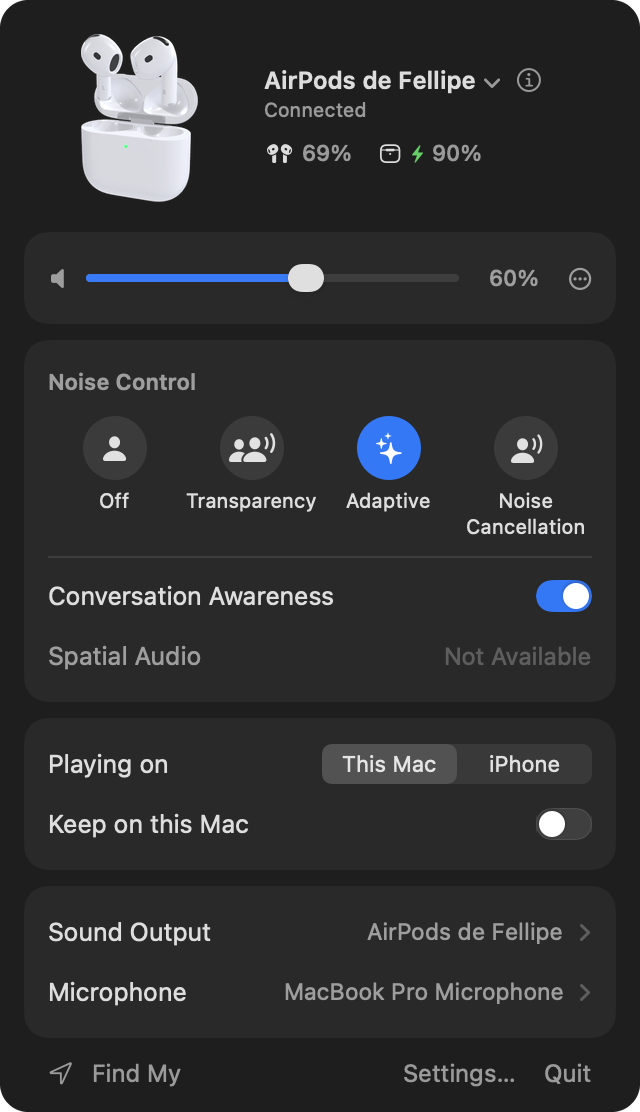
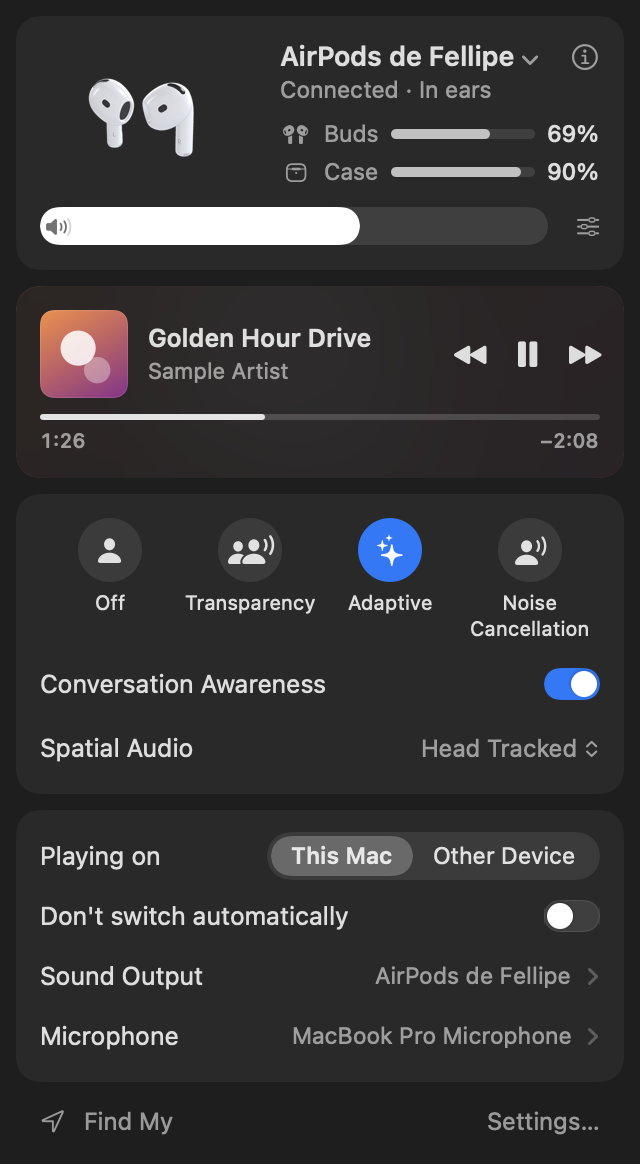
README: new 1.1.0 screenshots, badges, buy and trial buttons under the hero, a grid of four shots, short sections

diff --git a/README.md b/README.md
@@ -1,60 +1,122 @@
 <p align="center">
-  <img src="images/icon.png" width="96" height="96" alt="AirPane app icon">
+  <img src="images/icon.png" width="128" height="128" alt="AirPane app icon">
 </p>
 
 <h1 align="center">AirPane</h1>
 
 <p align="center">
   <strong>Your AirPods, at home on your Mac.</strong><br>
-  A menu bar app for AirPods. $7.99 once, for all your own Macs.
+  A menu bar app for AirPods. Free for 7 days, then $7.99 once, for all your own Macs.
 </p>
 
 <p align="center">
-  <a href="https://airpane.app"><strong>airpane.app</strong></a>
-  &nbsp;·&nbsp;
-  <a href="https://airpane.app/#buy">Buy AirPane</a>
-  &nbsp;·&nbsp;
-  <a href="https://github.com/fellipegoncalvesleite/airpane-releases/releases/latest/download/AirPane.dmg">Download</a>
+  <a href="https://github.com/fellipegoncalvesleite/airpane-releases/releases/latest"><img src="https://img.shields.io/github/v/release/fellipegoncalvesleite/airpane-releases?style=flat-square&label=version&color=111" alt="Latest version"></a>
+  <a href="https://github.com/fellipegoncalvesleite/airpane-releases/releases"><img src="https://img.shields.io/github/downloads/fellipegoncalvesleite/airpane-releases/total?style=flat-square&label=downloads&color=111" alt="Downloads"></a>
+  <img src="https://img.shields.io/badge/macOS-14%2B-111?style=flat-square&logo=apple&logoColor=white" alt="macOS 14 or later">
+  <img src="https://img.shields.io/badge/price-%247.99%20once-111?style=flat-square" alt="$7.99 once">
 </p>
 
 <p align="center">
   <picture>
     <source media="(prefers-color-scheme: dark)" srcset="images/card-dark.png">
-    <img src="images/card-light.png" width="360" alt="The card AirPane shows when you open the AirPods case: a 3D model of the AirPods with the buds at 69% and the case charging at 90%">
+    <img src="images/card-light.png" width="330" alt="The card AirPane shows when you open the AirPods case: a 3D model of the AirPods, the buds at 69% and the case charging at 90%">
   </picture>
   <picture>
     <source media="(prefers-color-scheme: dark)" srcset="images/panel-dark.png">
-    <img src="images/panel-light.png" width="250" alt="AirPane's menu bar panel: battery, volume, noise control, Conversation Awareness, Mac or iPhone, sound output and microphone">
+    <img src="images/panel-light.png" width="250" alt="AirPane's menu bar panel: battery, volume, what's playing, noise control, Conversation Awareness, where the sound plays, sound output and microphone">
   </picture>
+</p>
+
+<p align="center">
+  <a href="https://airpane.app/#buy"><img src="https://img.shields.io/badge/Buy_AirPane-%247.99-0A84FF?style=for-the-badge&labelColor=0A84FF" height="36" alt="Buy AirPane for $7.99"></a>
+  &nbsp;
+  <a href="https://github.com/fellipegoncalvesleite/airpane-releases/releases/latest/download/AirPane.dmg"><img src="https://img.shields.io/badge/Try_it_free-7_days-333?style=for-the-badge" height="36" alt="Download the 7-day free trial"></a><br>
+  <sub>One-time purchase, never a subscription. Full refund within 30 days. <a href="https://airpane.app">airpane.app</a></sub>
 </p>
 
 ## What it does
 
 - **Opens when you open the case.** Batteries and a Connect button the moment the lid opens, or when AirPods Max
   leave their Smart Case.
-- **Noise control in the menu bar.** Off, Transparency, Adaptive and Noise Cancellation, one click away.
-- **Volume up to 200%.** For the quiet call and the quieter video.
+- **Everything in one click.** Battery, volume up to 200%, what's playing, noise control, Conversation Awareness,
+  Spatial Audio, and where the sound goes, all in the menu bar.
+- **Keeps them where you want them.** Choose the Mac or your other device, keep your microphone, stop automatic
+  switching.
 
-And the small things: a sleep timer, a volume limit for your ears, when the case will be full, a battery widget, a
-small card when you put one AirPod back, sound output and microphone right from the panel, low battery alerts, hot
+<table>
+  <tr>
+    <td width="50%">
+      <picture>
+        <source media="(prefers-color-scheme: dark)" srcset="images/small-dark.png">
+        <img src="images/small-light.png" alt="A small card: both AirPods back in the case, buds at 69%, case at 90%">
+      </picture><br>
+      <b>The small things.</b> A quiet card when you put them back in the case.
+    </td>
+    <td width="50%">
+      <picture>
+        <source media="(prefers-color-scheme: dark)" srcset="images/pill-dark.png">
+        <img src="images/pill-light.png" alt="The small card size: the AirPods' name, batteries and a Connect button in one line">
+      </picture><br>
+      <b>Your size.</b> A full card, a compact one, a slim one, or one that drops from the notch.
+    </td>
+  </tr>
+  <tr>
+    <td>
+      <picture>
+        <source media="(prefers-color-scheme: dark)" srcset="images/case-open-dark.png">
+        <img src="images/case-open-light.png" alt="The panel while the case is open nearby, with a Connect to this Mac button">
+      </picture><br>
+      <b>One click to connect.</b> Open the case and the panel offers to bring them to this Mac.
+    </td>
+    <td>
+      <picture>
+        <source media="(prefers-color-scheme: dark)" srcset="images/setup-dark.png">
+        <img src="images/setup-light.png" alt="The card for AirPods not yet set up with this Mac, with steps and an Open Bluetooth Settings button">
+      </picture><br>
+      <b>New AirPods too.</b> It walks you through pairing ones this Mac hasn't met yet.
+    </td>
+  </tr>
+</table>
+
+<details>
+<summary><b>Everything else</b></summary>
+<br>
+
+A sleep timer, a volume limit for your ears, when the case will be full, a battery widget, low battery alerts, hot
 keys, Shortcuts and AppleScript, and Liquid Glass, frosted, tinted or solid to match your Mac.
 
-## Nothing leaves your Mac
+</details>
+
+<details>
+<summary><b>Nothing leaves your Mac</b></summary>
+<br>
 
 No account, no analytics, no ads and no crash reporter. Its only connection is an update check you can switch off,
 and nothing about you is sent. [Read the privacy note](https://airpane.app/privacy).
 
-## Getting it
+</details>
 
-AirPane is a one-time purchase of **$7.99**, never a subscription, and it works on all your own Macs. If it isn't
-right for you, you get a full refund within 30 days. [Buy it at airpane.app](https://airpane.app/#buy): your licence
-key appears on the page right after you pay, and it activates offline. Lost it?
+<details>
+<summary><b>Buying, and your licence key</b></summary>
+<br>
+
+AirPane is free for 7 days, then a one-time purchase of **$7.99**, never a subscription, and it works on all your own
+Macs. If it isn't right for you, you get a full refund within 30 days. [Buy it at airpane.app](https://airpane.app/#buy):
+your licence key appears on the page right after you pay, and it activates offline. Lost it?
 [Recover your key](https://airpane.app/recover).
 
-You need a Mac with macOS 14 or later and a pair of AirPods (volume above 100% needs macOS 14.2).
+</details>
+
+<details>
+<summary><b>Requirements, and opening it the first time</b></summary>
+<br>
+
+A Mac with macOS 14 or later and a pair of AirPods (volume above 100% needs macOS 14.2).
 
 AirPane isn't notarized by Apple yet, so macOS asks you to confirm it the first time you open it.
 [Here's how](https://airpane.app/open). The notarized version will come as a normal update.
+
+</details>
 
 ## This repository
 
